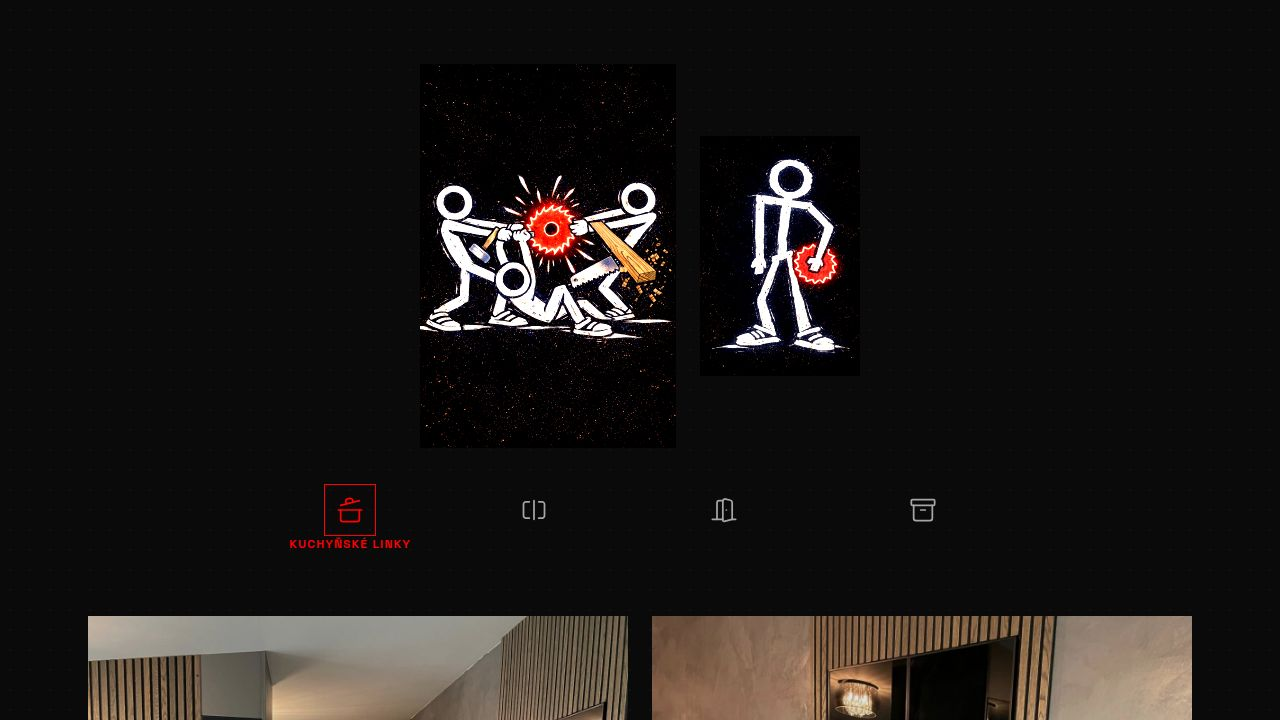
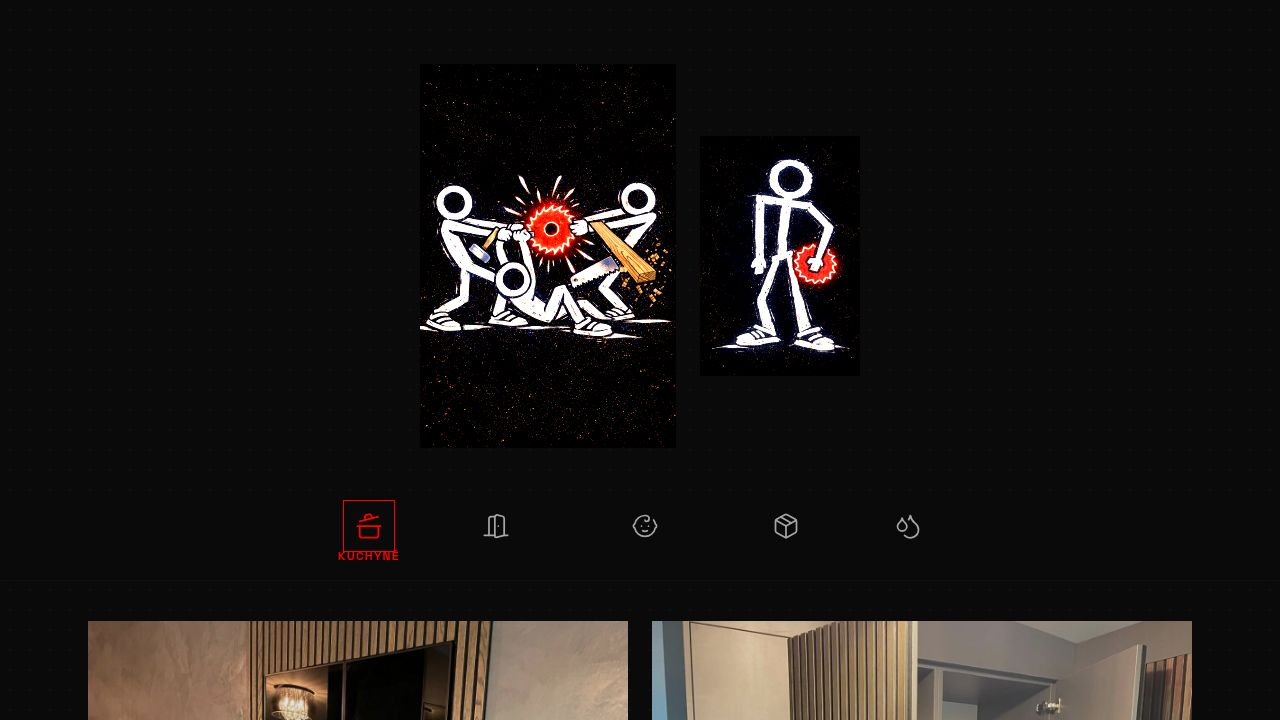
Add new sections and a phone number to the website
Update navigation sections to include Kuchyně, Předsíně, Dětské pokoje, Skříně, and Koupelny, and add a phone number to the footer contact information in App.tsx.

Replit-Commit-Author: Agent
Replit-Commit-Session-Id: 565ba464-6043-4684-b660-5e6c25a2803b
Replit-Commit-Checkpoint-Type: full_checkpoint
Replit-Commit-Event-Id: b13e3b15-eeaa-445a-b563-1523fc08f37b
Replit-Commit-Screenshot-Url: https://storage.googleapis.com/screenshot-production-us-central1/9e984159-c20e-4a9b-a748-91a8a7865a03/565ba464-6043-4684-b660-5e6c25a2803b/bsqyuEP
Replit-Helium-Checkpoint-Created: true

diff --git a/artifacts/borcovna/src/App.tsx b/artifacts/borcovna/src/App.tsx
@@ -5,7 +5,7 @@ import { Toaster } from "@/components/ui/toaster";
 import { TooltipProvider } from "@/components/ui/tooltip";
 import NotFound from "@/pages/not-found";
 import { motion, AnimatePresence } from "framer-motion";
-import { CookingPot, SquareSplitHorizontal, DoorOpen, Archive } from "lucide-react";
+import { CookingPot, DoorOpen, Baby, Package, Droplets } from "lucide-react";
 
 import logoGroup from "@assets/IMG-20260410-WA0002_1775846111566.jpg";
 import logoSingle from "@assets/IMG-20260410-WA0001_1775846111605.jpg";
@@ -20,17 +20,19 @@ import furn7 from "@assets/IMG-20251015-WA0000_1775846111696.jpg";
 const queryClient = new QueryClient();
 
 const sections = [
-  { id: "kuchyne", label: "Kuchyňské linky", icon: CookingPot },
-  { id: "skrine", label: "Vestavné skříně", icon: SquareSplitHorizontal },
-  { id: "chodby", label: "Chodby & Předsíně", icon: DoorOpen },
-  { id: "komody", label: "Komody & Úložiště", icon: Archive },
+  { id: "kuchyne", label: "Kuchyně", icon: CookingPot },
+  { id: "predsine", label: "Předsíně", icon: DoorOpen },
+  { id: "detske", label: "Dětské pokoje", icon: Baby },
+  { id: "skrine", label: "Skříně", icon: Package },
+  { id: "koupelny", label: "Koupelny", icon: Droplets },
 ];
 
 const photos = {
   kuchyne: [furn2, furn5, furn6, furn3, furn4],
+  predsine: [furn1, furn7, furn4, furn2, furn6],
+  detske: [furn3, furn6, furn1, furn5, furn7],
   skrine: [furn5, furn6, furn1, furn7, furn2],
-  chodby: [furn1, furn7, furn3, furn4, furn5],
-  komody: [furn3, furn4, furn2, furn6, furn7],
+  koupelny: [furn4, furn3, furn7, furn6, furn1],
 };
 
 function Home() {
@@ -125,12 +127,21 @@ function Home() {
       </main>
 
       {/* Footer */}
-      <footer className="w-full py-12 flex justify-center border-t border-border/50">
-        <a 
-          href="mailto:borcovna@roberton.cz" 
+      <footer className="w-full py-12 flex flex-col sm:flex-row justify-center items-center gap-6 sm:gap-12 border-t border-border/50">
+        <a
+          href="mailto:borcovna@roberton.cz"
+          data-testid="link-email"
           className="text-muted-foreground hover:text-primary transition-colors tracking-widest text-sm"
         >
           borcovna@roberton.cz
+        </a>
+        <span className="hidden sm:block text-border/60">|</span>
+        <a
+          href="tel:+420606836630"
+          data-testid="link-phone"
+          className="text-muted-foreground hover:text-primary transition-colors tracking-widest text-sm"
+        >
+          606 836 630
         </a>
       </footer>
     </div>
